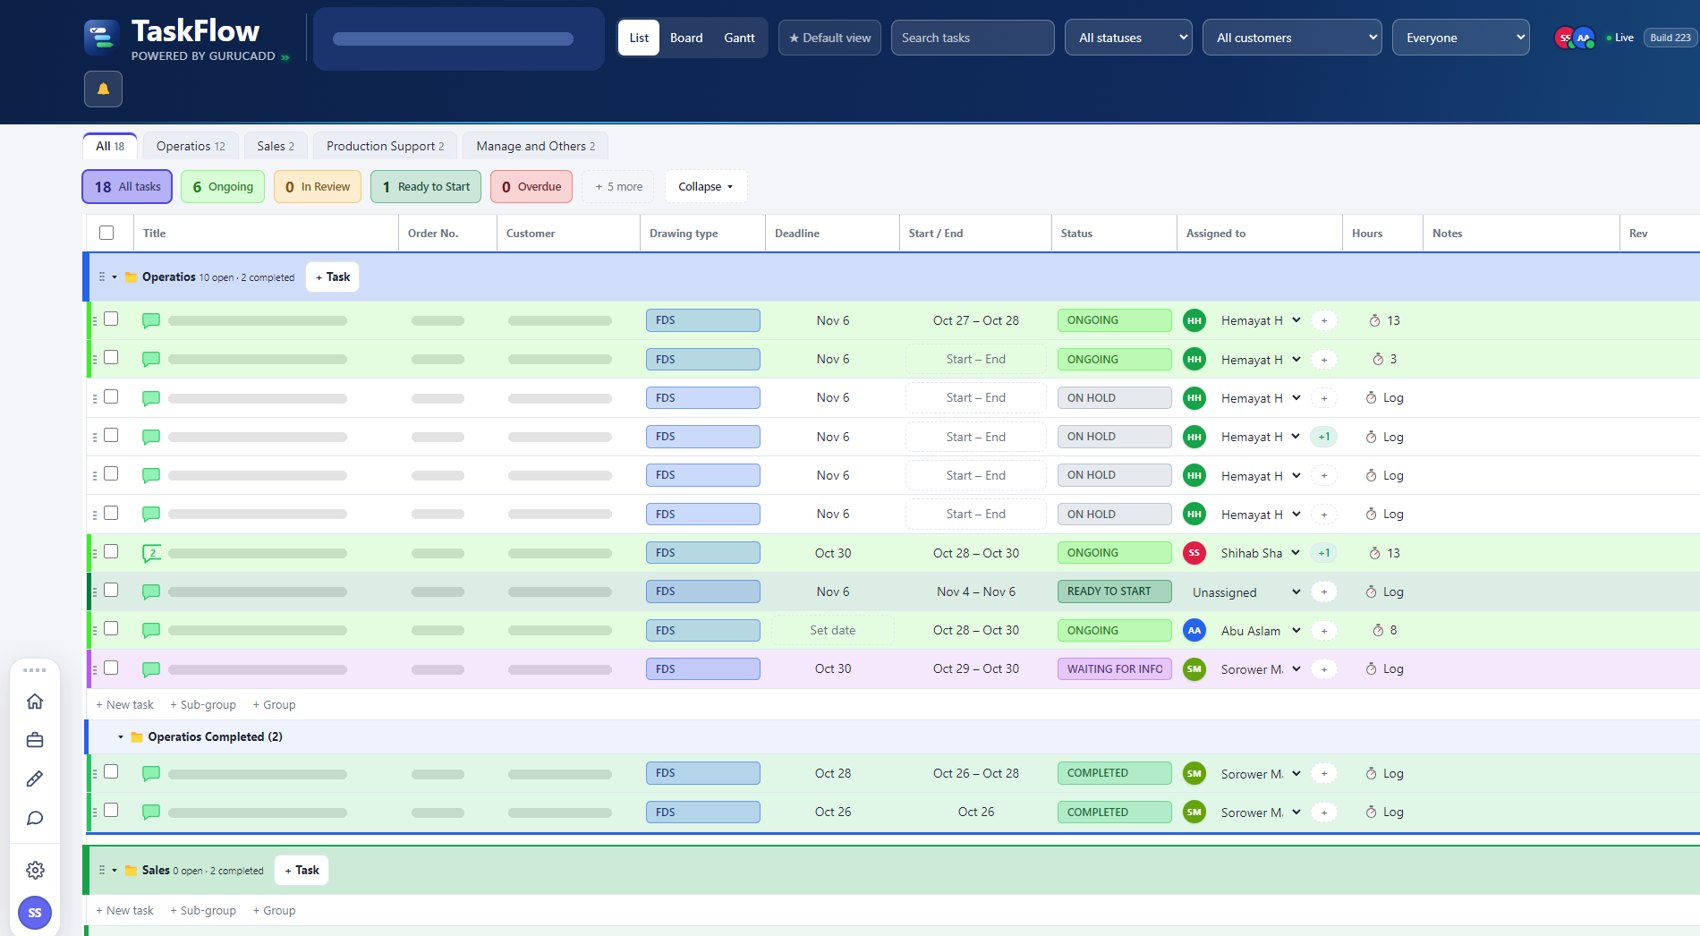
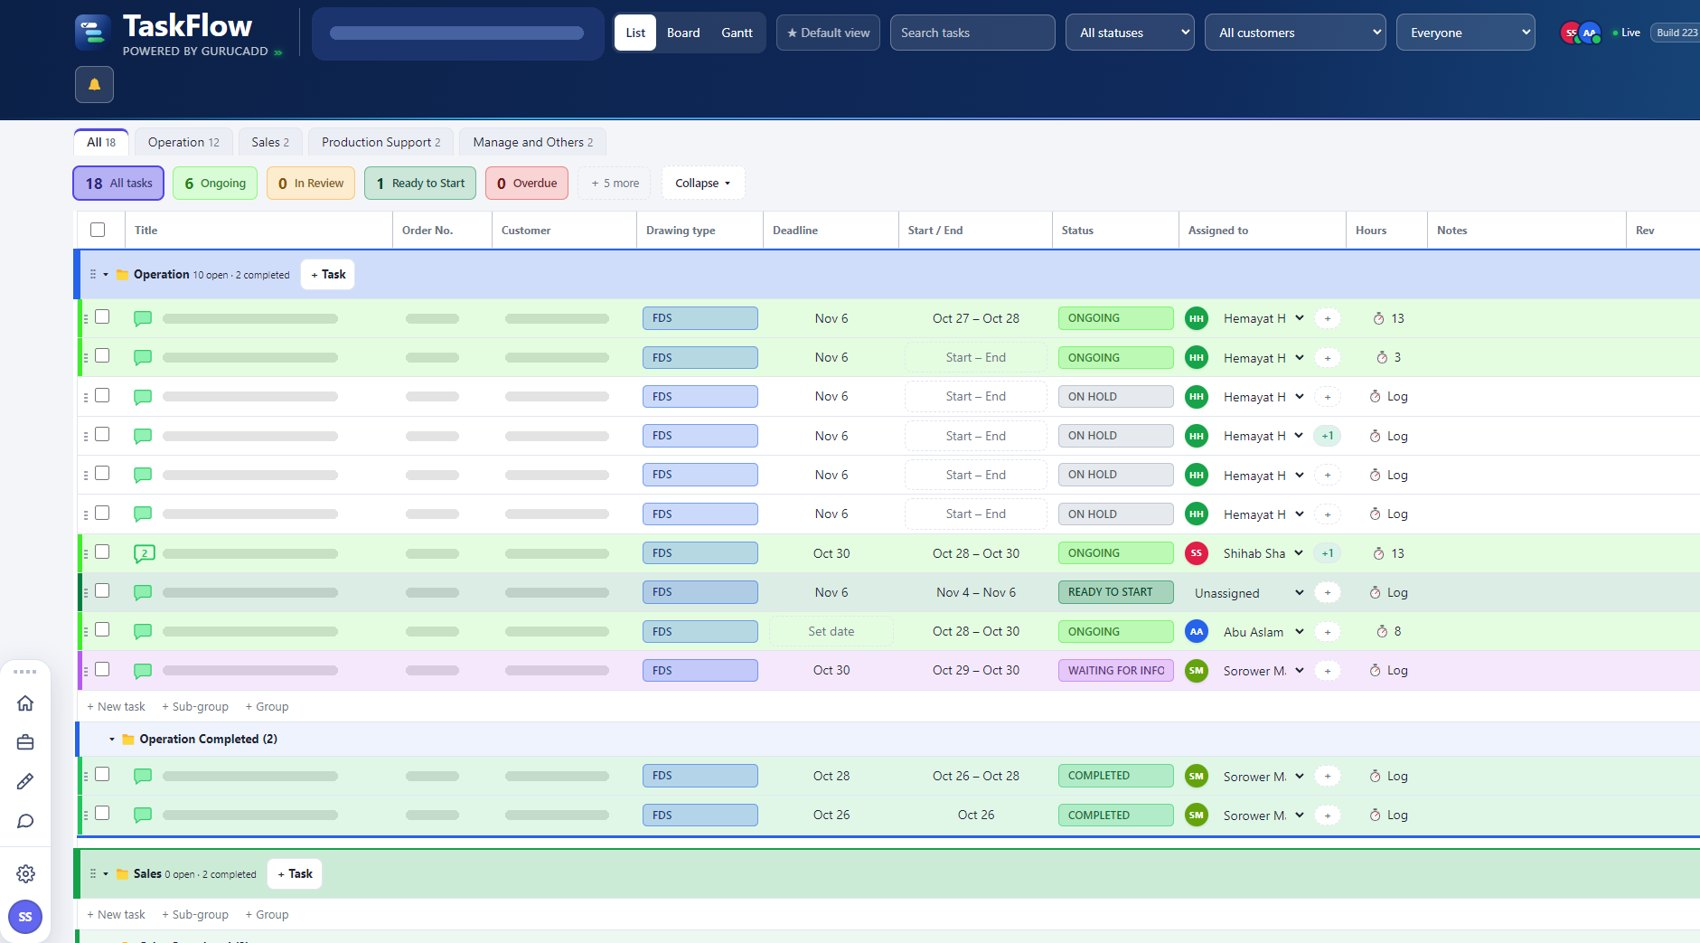
Update TaskFlow screenshot (corrected group name, details hidden)
Claude-Session: https://claude.ai/code/session_0158Fftx2yiYDSvStLzRsbkD

diff --git a/site/index.html b/site/index.html
@@ -2,7 +2,7 @@
 <html lang="en">
 <head>
 <meta charset="utf-8">
-<meta name="build" content="19">
+<meta name="build" content="20">
 <meta name="viewport" content="width=device-width, initial-scale=1, viewport-fit=cover">
 <meta name="description" content="GuruCADD: production drawings, conceptual sales drawings, light gauge modular building design and CAD-to-ERP integration for fabric structures and steel fabricators. Based in Khulna, Bangladesh.">
 <meta property="og:title" content="GuruCADD | Designing Excellence">
@@ -420,7 +420,7 @@ footer{background:#06122d}
 <div class="util">
   <div class="wrap">
     <div class="contacts"><span>Call <b>+880 1711 902929</b></span><span>Email <b>info@gurucadd.com</b></span></div>
-    <span class="loc">Drawing office · Khulna, Bangladesh · English-speaking team</span><span id="build" class="bld">Build 19</span>
+    <span class="loc">Drawing office · Khulna, Bangladesh · English-speaking team</span><span id="build" class="bld">Build 20</span>
   </div>
 </div>
 <header>
@@ -648,7 +648,7 @@ footer{background:#06122d}
   <div class="wrap tfshot">
     <figure>
       <div class="tfbar"><i></i><i></i><i></i><span>taskflow.gurucadd.com</span></div>
-      <img src="images/taskflow-screen.jpg" width="1700" height="936" loading="lazy" alt="The TaskFlow task list showing jobs, drawing types, deadlines, status, assigned team members and logged hours">
+      <img src="images/taskflow-screen.jpg" width="1700" height="943" loading="lazy" alt="The TaskFlow task list showing jobs, drawing types, deadlines, status, assigned team members and logged hours">
       <figcaption>A live TaskFlow list. Job names and customer details are hidden here to protect client confidentiality.</figcaption>
     </figure>
   </div>
